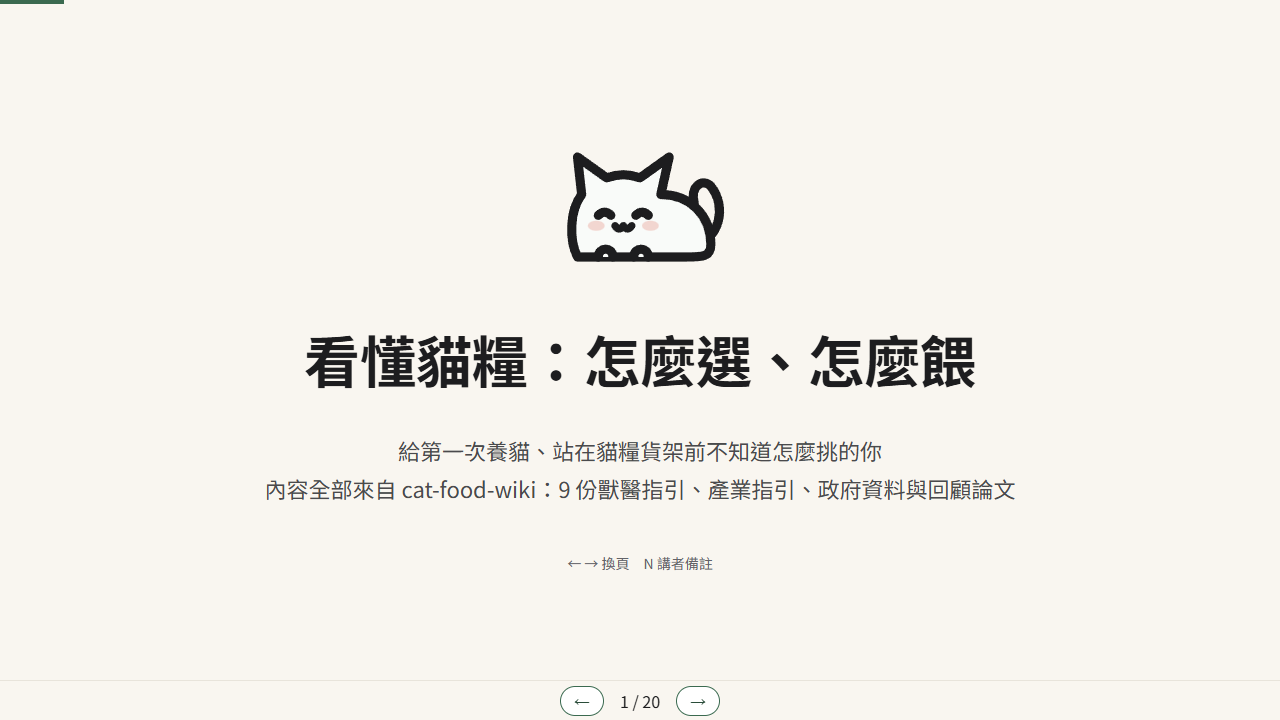
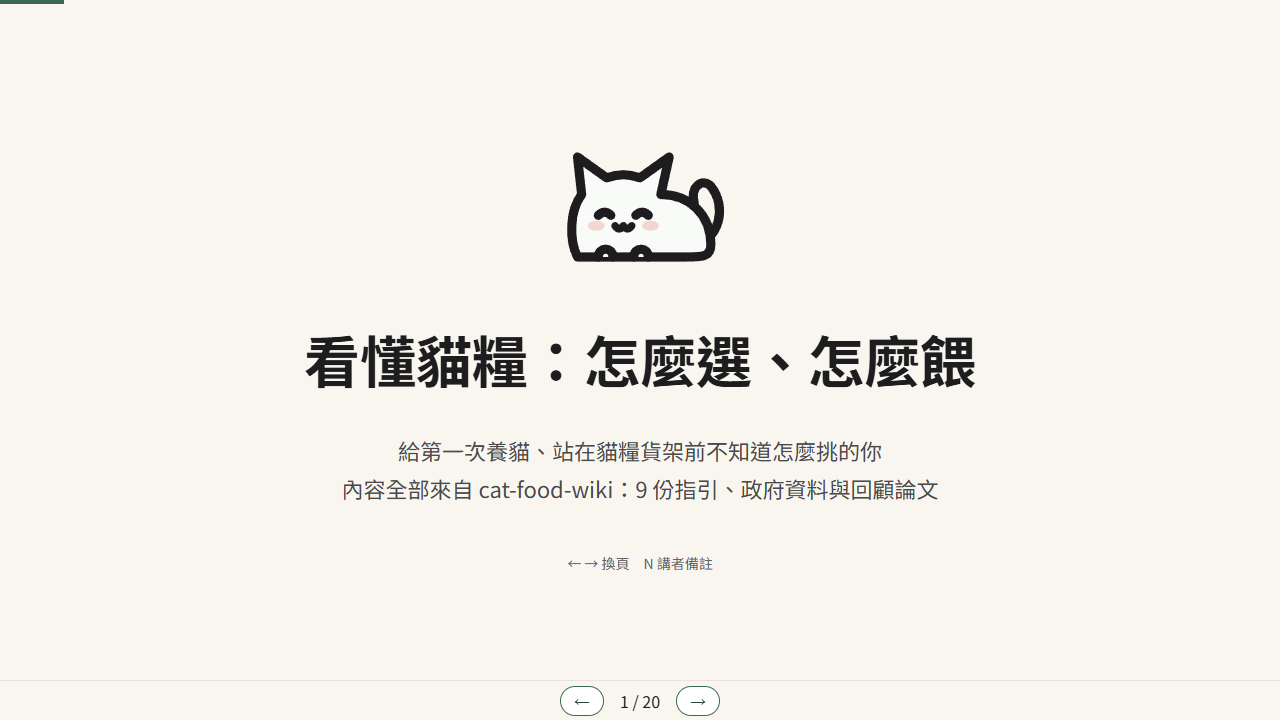
產出: 第 10 輪審查實質 0，重新產出與截圖，停在 H3

Changed region(s): [[0.1875, 0.6417, 0.8125, 0.7028]]

diff --git a/docs/index.html b/docs/index.html
@@ -68,7 +68,7 @@ nav button{border:1px solid var(--primary);background:var(--card);color:var(--de
                 <path d="M 18 28.5 Q 19 30 20 28.5 Q 21 30 22 28.5" stroke-width="1.8"/>
                 <path d="M 14 36 C 14 33.5, 17.5 33.5, 17.5 36" fill="var(--cat-white)"/>
                 <path d="M 22.5 36 C 22.5 33.5, 26 33.5, 26 36" fill="var(--cat-white)"/>
-            </svg><h1><span class="nb">看懂貓糧：</span><span class="nb">怎麼選、</span><span class="nb">怎麼餵</span></h1><ul class="sub"><li>給第一次養貓、站在貓糧貨架前不知道怎麼挑的你</li><li>內容全部來自 cat-food-wiki：9 份獸醫指引、產業指引、政府資料與回顧論文</li></ul><aside class="note">每一點後面的上標是 Wiki 的主張編號；每頁底部列出依據的來源和頁碼，點了可以回 Wiki 查原文。</aside><p class="hint">← → 換頁　N 講者備註</p></section><section class="slide" data-i="2"><header><span class="num">2</span><h2><span class="nb">今天你會學到什麼</span></h2><svg class="cat" aria-hidden="true" xmlns="http://www.w3.org/2000/svg" viewBox="0 0 48 48" fill="none" stroke="currentColor" stroke-width="2.2" stroke-linecap="round" stroke-linejoin="round">
+            </svg><h1><span class="nb">看懂貓糧：</span><span class="nb">怎麼選、</span><span class="nb">怎麼餵</span></h1><ul class="sub"><li>給第一次養貓、站在貓糧貨架前不知道怎麼挑的你</li><li>內容全部來自 cat-food-wiki：9 份指引、政府資料與回顧論文</li></ul><aside class="note">每一點後面的上標是 Wiki 的主張編號；每頁底部列出依據的來源和頁碼，點了可以回 Wiki 查原文。</aside><p class="hint">← → 換頁　N 講者備註</p></section><section class="slide" data-i="2"><header><span class="num">2</span><h2><span class="nb">今天你會學到什麼</span></h2><svg class="cat" aria-hidden="true" xmlns="http://www.w3.org/2000/svg" viewBox="0 0 48 48" fill="none" stroke="currentColor" stroke-width="2.2" stroke-linecap="round" stroke-linejoin="round">
                 <path d="M 35 9 C 35 5.5, 41 5.5, 41 9.5 C 41 12.5, 38 13.5, 38 16.5" stroke="var(--gold)" stroke-width="2.5"/>
                 <circle cx="38" cy="20.5" r="1.4" fill="var(--gold)" stroke="none"/>
                 <path d="M 16.5 28 C 13.5 33, 13.5 40.5, 18 40.5 L 30 40.5 C 34.5 40.5, 34.5 33, 31.5 28" fill="var(--cat-white)"/>
@@ -148,7 +148,7 @@ nav button{border:1px solid var(--primary);background:var(--card);color:var(--de
                     <path d="M 25.5 24.5 Q 26.5 26 27.5 24.5 Q 28.5 26 29.5 24.5" stroke-width="1.8"/>
                     <path d="M 21 31 C 16 30, 14 32, 16 35 C 17 36, 20 35, 23 34" fill="var(--cat-white)"/>
                 </g>
-            </svg></header><ul class="points"><li>標短期、間歇或副食的，只佔 10% 以下；處方食品在獸醫監督下例外<sup class="ref">C-ADQ-04</sup></li><li>零食不超過總飲食的 10%，熱量要算進每天的份量<sup class="ref">C-TRT-01</sup></li><li>零食和補充品不需要營養充足聲明<sup class="ref">C-TRT-02</sup></li><li>世界小動物獸醫協會（WSAVA）：零食、餐桌食物超過總熱量 10% 是風險因子<sup class="ref">C-TRT-03</sup></li></ul><footer class="refs"><span>依據 Wiki：</span><a href="https://github.com/Chen-MouChin/cat-food-wiki/blob/main/wiki/sources/WSAVA-SELECTING-PET-FOODS-2021.md" target="_blank" rel="noopener">C-ADQ-04｜WSAVA 選食物 p.1</a><a href="https://github.com/Chen-MouChin/cat-food-wiki/blob/main/wiki/sources/AAFP-NUTRITION-2018.md" target="_blank" rel="noopener">C-TRT-01｜AAFP 2018 p.2</a><a href="https://github.com/Chen-MouChin/cat-food-wiki/blob/main/wiki/sources/AAHA-NUTRITION-2021.md" target="_blank" rel="noopener">C-TRT-02｜AAHA 2021 p.6</a><a href="https://github.com/Chen-MouChin/cat-food-wiki/blob/main/wiki/sources/WSAVA-NUTRITION-2011.md" target="_blank" rel="noopener">C-TRT-03｜WSAVA 2011 p.3</a></footer></section><section class="slide" data-i="7"><header><span class="num">7</span><h2><span class="nb">產品名稱藏著比例（美國規則）</span></h2><svg class="cat" aria-hidden="true" xmlns="http://www.w3.org/2000/svg" viewBox="0 0 48 48" fill="none" stroke="currentColor" stroke-width="2.2" stroke-linecap="round" stroke-linejoin="round">
+            </svg></header><ul class="points"><li>標短期、間歇或副食的，只佔 10% 以下；處方食品照醫囑使用時例外<sup class="ref">C-ADQ-04</sup></li><li>零食不超過總飲食的 10%，熱量要算進每天的份量<sup class="ref">C-TRT-01</sup></li><li>零食和補充品不需要營養充足聲明<sup class="ref">C-TRT-02</sup></li><li>世界小動物獸醫協會（WSAVA）：零食、餐桌食物超過總熱量 10% 是風險因子<sup class="ref">C-TRT-03</sup></li></ul><footer class="refs"><span>依據 Wiki：</span><a href="https://github.com/Chen-MouChin/cat-food-wiki/blob/main/wiki/sources/WSAVA-SELECTING-PET-FOODS-2021.md" target="_blank" rel="noopener">C-ADQ-04｜WSAVA 選食物 p.1</a><a href="https://github.com/Chen-MouChin/cat-food-wiki/blob/main/wiki/sources/AAFP-NUTRITION-2018.md" target="_blank" rel="noopener">C-TRT-01｜AAFP 2018 p.2</a><a href="https://github.com/Chen-MouChin/cat-food-wiki/blob/main/wiki/sources/AAHA-NUTRITION-2021.md" target="_blank" rel="noopener">C-TRT-02｜AAHA 2021 p.6</a><a href="https://github.com/Chen-MouChin/cat-food-wiki/blob/main/wiki/sources/WSAVA-NUTRITION-2011.md" target="_blank" rel="noopener">C-TRT-03｜WSAVA 2011 p.3</a></footer></section><section class="slide" data-i="7"><header><span class="num">7</span><h2><span class="nb">產品名稱藏著比例（美國規則）</span></h2><svg class="cat" aria-hidden="true" xmlns="http://www.w3.org/2000/svg" viewBox="0 0 48 48" fill="none" stroke="currentColor" stroke-width="2.2" stroke-linecap="round" stroke-linejoin="round">
                 <g class="anim-breathe" style="transform-origin: 24px 36px;">
                     <path d="M 10 29 C 9 24, 11 20, 13 18 L 12 11 L 18 15 C 20 14.5, 22 14.5, 24 15 L 29 11 L 28 17 C 35 17, 40 23, 40 30 C 40 37, 33 40, 24 40 C 15 40, 10 36, 10 29 Z" fill="var(--cat-white)"/>
                     <ellipse cx="15" cy="27.5" rx="1.8" ry="1" fill="var(--cat-blush)" stroke="none"/>
@@ -263,7 +263,7 @@ nav button{border:1px solid var(--primary);background:var(--card);color:var(--de
                 <line x1="24" y1="26" x2="24" y2="33" stroke="var(--gold)" stroke-width="1.8"/>
                 <path d="M 15.5 25.5 C 15.5 29.8, 20.5 29.8, 20.5 25.5" fill="var(--cat-white)"/>
                 <path d="M 27.5 25.5 C 27.5 29.8, 32.5 29.8, 32.5 25.5" fill="var(--cat-white)"/>
-            </svg></header><ul class="points"><li>體態評分（BCS）看身上的脂肪；9 分制，沒有驗證過超過 9 分的系統<sup class="ref">C-BCS-07</sup><sup class="ref">C-BCS-08</sup></li><li>理想是 9 分制的 4–5 分，有些飼主會覺得這樣太瘦<sup class="ref">C-BCS-02</sup><sup class="ref">C-BCS-09</sup></li><li>低於 4 或高於 5，WSAVA 列為營養的風險因子<sup class="ref">C-BCS-05</sup></li><li>獸醫和飼主要經常看體態，再調整餵的量<sup class="ref">C-BCS-06</sup></li></ul><footer class="refs"><span>依據 Wiki：</span><a href="https://github.com/Chen-MouChin/cat-food-wiki/blob/main/wiki/sources/WSAVA-NUTRITION-2011.md" target="_blank" rel="noopener">C-BCS-07｜WSAVA 2011 p.3</a><a href="https://github.com/Chen-MouChin/cat-food-wiki/blob/main/wiki/sources/WSAVA-NUTRITION-2011.md" target="_blank" rel="noopener">C-BCS-08｜WSAVA 2011 p.3</a><a href="https://github.com/Chen-MouChin/cat-food-wiki/blob/main/wiki/sources/AAFP-NUTRITION-2018.md" target="_blank" rel="noopener">C-BCS-02｜AAFP 2018 p.3</a><a href="https://github.com/Chen-MouChin/cat-food-wiki/blob/main/wiki/sources/WSAVA-NUTRITION-2011.md" target="_blank" rel="noopener">C-BCS-09｜WSAVA 2011 p.3</a><a href="https://github.com/Chen-MouChin/cat-food-wiki/blob/main/wiki/sources/WSAVA-NUTRITION-2011.md" target="_blank" rel="noopener">C-BCS-05｜WSAVA 2011 p.3</a><a href="https://github.com/Chen-MouChin/cat-food-wiki/blob/main/wiki/sources/AAFP-NUTRITION-2018.md" target="_blank" rel="noopener">C-BCS-06｜AAFP 2018 p.3</a></footer></section><section class="slide" data-i="15"><header><span class="num">15</span><h2><span class="nb">怎麼餵：</span><span class="nb">模仿貓的天性</span></h2><svg class="cat" aria-hidden="true" xmlns="http://www.w3.org/2000/svg" viewBox="0 0 48 48" fill="none" stroke="currentColor" stroke-width="2.2" stroke-linecap="round" stroke-linejoin="round">
+            </svg></header><ul class="points"><li>體態評分（BCS）看身上的脂肪；9 分制，沒有驗證過超過 9 分的系統<sup class="ref">C-BCS-07</sup><sup class="ref">C-BCS-08</sup></li><li>理想是 9 分制的 4–5 分，有些飼主會覺得這樣太瘦<sup class="ref">C-BCS-02</sup><sup class="ref">C-BCS-09</sup></li><li>低於 4 或高於 5，WSAVA 列為營養的風險因子<sup class="ref">C-BCS-05</sup></li><li>要經常看體態，再調整餵的量<sup class="ref">C-BCS-06</sup></li></ul><footer class="refs"><span>依據 Wiki：</span><a href="https://github.com/Chen-MouChin/cat-food-wiki/blob/main/wiki/sources/WSAVA-NUTRITION-2011.md" target="_blank" rel="noopener">C-BCS-07｜WSAVA 2011 p.3</a><a href="https://github.com/Chen-MouChin/cat-food-wiki/blob/main/wiki/sources/WSAVA-NUTRITION-2011.md" target="_blank" rel="noopener">C-BCS-08｜WSAVA 2011 p.3</a><a href="https://github.com/Chen-MouChin/cat-food-wiki/blob/main/wiki/sources/AAFP-NUTRITION-2018.md" target="_blank" rel="noopener">C-BCS-02｜AAFP 2018 p.3</a><a href="https://github.com/Chen-MouChin/cat-food-wiki/blob/main/wiki/sources/WSAVA-NUTRITION-2011.md" target="_blank" rel="noopener">C-BCS-09｜WSAVA 2011 p.3</a><a href="https://github.com/Chen-MouChin/cat-food-wiki/blob/main/wiki/sources/WSAVA-NUTRITION-2011.md" target="_blank" rel="noopener">C-BCS-05｜WSAVA 2011 p.3</a><a href="https://github.com/Chen-MouChin/cat-food-wiki/blob/main/wiki/sources/AAFP-NUTRITION-2018.md" target="_blank" rel="noopener">C-BCS-06｜AAFP 2018 p.3</a></footer></section><section class="slide" data-i="15"><header><span class="num">15</span><h2><span class="nb">怎麼餵：</span><span class="nb">模仿貓的天性</span></h2><svg class="cat" aria-hidden="true" xmlns="http://www.w3.org/2000/svg" viewBox="0 0 48 48" fill="none" stroke="currentColor" stroke-width="2.2" stroke-linecap="round" stroke-linejoin="round">
                 <circle cx="11" cy="35" r="5" fill="var(--pale-moss)"/>
                 <path d="M 9 32 C 11 34, 13 36, 14 38" stroke-width="1.6"/>
                 <path d="M 14 32 C 12 34, 10 36, 8 37" stroke-width="1.6"/>

diff --git a/runs/gates/H3_2026-11-20-2.md b/runs/gates/H3_2026-11-20-2.md
@@ -1,0 +1,99 @@
+# H3 人工審核最終成果（執行 2026-11-20-2）
+
+請看成果本身：簡報（直接開 `docs/index.html`，按 N 看講者備註）、截圖，以及下面這次執行的摘要。
+截圖在 `runs/shots/2026-11-20-2/`（23 張）。
+「判定：」填 **OK**，或 **NG 內容 原因**（退回 S8）、**NG Wiki 原因**（退回 S3）、**NG 版面 原因**（退回 S11）。
+
+這次執行經過的節點：
+
+| 時間 | 節點 | 類型 | 結果 | 下一步 | 說明 |
+|---|---|---|---|---|---|
+| 2026-11-20 10:28 | H0 人工審核流程框架 | human | OK | S0 | runs/gates/H0_2026-11-20-2.md |
+| 2026-11-20 10:28 | S0 討論範圍與來源 | agent | 完成 | S1 | 主題、聽眾、來源沿用 11/19 的討論（wiki/log.md 第一筆）；這次沒有新主題或新來源 |
+| 2026-11-20 10:28 | S1 取得原文 | agent | 完成 | S2 | 9 份原文已在 raw/，不重抓 |
+| 2026-11-20 10:28 | S2 抽逐頁文字 | auto | OK | S3 | 逐頁文字 9 份 |
+| 2026-11-20 10:28 | S3 Ingest 寫主張 | agent | 完成 | S4 | 主張 61 條，這次沒有新增或修改 |
+| 2026-11-20 10:28 | S4 Wiki 檢查 lint | auto | OK | S5 | 主張 61 條，原句比對成功 61 條；FAIL 0，WARN 0 |
+| 2026-11-20 10:28 | S5 AI 逐條對照意思 | agent | 完成 | S6 | 沿用 11/19 的逐條對照（runs/lint_04_semantic_fix.txt）；此後主張沒有再改 |
+| 2026-11-20 10:28 | S6 整理主題頁 | agent | 完成 | S6L | 主題頁 7 頁，這次沒有修改 |
+| 2026-11-20 10:28 | S6L 主題頁檢查 lint | auto | OK | S7 | 主張 61 條，原句比對成功 61 條；FAIL 0，WARN 0 |
+| 2026-11-20 10:28 | S7 查 Wiki 排大綱 | agent | 完成 | S8 | outline.md 沿用，這次沒有修改 |
+| 2026-11-20 10:28 | S8 生成簡報 | agent | 完成 | S9 | deck.md 沿用審查第 4 輪後的版本，這次沒有修改 |
+| 2026-11-20 10:28 | S9 簡報檢查 | auto | OK | S10 | 簡報 18 頁，引用 53 條主張（Wiki 共 61 條）；FAIL 0 |
+| 2026-11-20 10:28 | S10 獨立審查 agent | agent | FAIL：實質問題：Wiki 缺資料 | S3 | runs/review_05.md：實質 8、輕微 24 |
+| 2026-11-20 10:30 | S3 Ingest 寫主張 | agent | 完成 | S4 | 依審查第 5 輪改 C-FEED-01、C-LBL-06、C-BRD-01～03（實質）與 C-LBL-03、C-ADQ-04、C-CARB-06、C-KCAL-02、C-BCS-01（輕微）；新增 C-LBL-07、08（FDA 肉粉與乾物比較）、C-BCS-07～09（WSAVA 2011 體態評分） |
+| 2026-11-20 10:30 | S4 Wiki 檢查 lint | auto | FAIL：原句對不到／數字不一致 | S3 | C-BCS-07 原句在 p.3，不是 p.2；C-BCS-08 原句在 p.3，不是 p.2；C-BCS-09 原句在 p.3，不是 p.2 |
+| 2026-11-20 10:30 | S3 Ingest 寫主張 | agent | 完成 | S4 | C-BCS-07～09 頁碼改成 p.3（WSAVA 2011 的 BCS 段落在第 3 頁） |
+| 2026-11-20 10:30 | S4 Wiki 檢查 lint | auto | OK | S5 | 主張 66 條，原句比對成功 66 條；FAIL 0，WARN 5 |
+| 2026-11-20 10:30 | S5 AI 逐條對照意思 | agent | FAIL：中文超出原句 | S3 | C-BCS-08：「也就是分數越高越胖」是推論，原句只說有些極度肥胖的病例超過 9/9，而且是「有些」不是全部；C-CARB-06：中文的「依目前發表的證據，看起來」不在引用的原句裡，要把原句往前抄；C-LBL-07：中文用「可能」，原句是在那個例子裡「可以看出」較多，語氣對不上 |
+| 2026-11-20 10:30 | S3 Ingest 寫主張 | agent | 完成 | S4 | 照 S5 改 C-BCS-08（刪推論、改成「有些」）、C-CARB-06（原句往前抄到 Based on currently published evidence）、C-LBL-07（語氣對齊原句） |
+| 2026-11-20 10:30 | S4 Wiki 檢查 lint | auto | OK | S5 | 主張 66 條，原句比對成功 66 條；FAIL 0，WARN 5 |
+| 2026-11-20 10:30 | S5 AI 逐條對照意思 | agent | 完成 | S6 | 這次改過與新增的 15 條逐條對照：前一輪的 3 條已修正，其餘中文都在原句範圍內 |
+| 2026-11-20 10:31 | S6 整理主題頁 | agent | 完成 | S6L | 依新主張更新 5 個主題頁：選品牌拿掉題號、肉粉與乾物比較（C-LBL-06～08）、體態評分（C-BCS-07～09）、C-FEED-01、C-CARB-06、C-KCAL-02 的措辭 |
+| 2026-11-20 10:31 | S6L 主題頁檢查 lint | auto | OK | S7 | 主張 66 條，原句比對成功 66 條；FAIL 0，WARN 0 |
+| 2026-11-20 10:31 | S7 查 Wiki 排大綱 | agent | 完成 | S8 | outline 第 8 頁加 C-LBL-07、08，第 14 頁加 C-BCS-07～09（query_wiki.py 查「肉粉 乾物」「體態 脂肪」） |
+| 2026-11-20 10:32 | S8 生成簡報 | agent | 完成 | S9 | 依審查第 5 輪改 12 頁：實質 R1～R4（肉粉、熱量頁、24 小時、附錄流程）＋輕微 R9～R27 中 17 項；附錄流程改由 run_graph 的節點產生 |
+| 2026-11-20 10:32 | S9 簡報檢查 | auto | OK | S10 | 簡報 18 頁，引用 56 條主張（Wiki 共 66 條）；FAIL 0 |
+| 2026-11-20 10:36 | S10 獨立審查 agent | agent | FAIL：實質問題：Wiki 缺資料 | S3 | runs/review_05.md：實質 8、輕微 24 |
+| 2026-11-20 10:37 | S10 獨立審查 agent | agent | 撤銷上一筆 | S10 | 10:36 那筆是第 5 輪審查 agent 誤用舊審查檔（review_05，審的是修改前的簡報）標記的；撤銷，S10→S3 次數改回 1，改用審新版的 review_06 |
+| 2026-11-20 10:37 | S10 獨立審查 agent | agent | FAIL：實質問題：Wiki 缺資料 | S3 | runs/review_06.md：實質 4、輕微 23 |
+| 2026-11-20 10:38 | S3 Ingest 寫主張 | agent | 完成 | S4 | 依審查第 6 輪：C-BCS-08 補但書（沒有驗證過超過 9 分的系統）；C-KCAL-06、C-BRD-01 原句或中文對齊；C-LBL-08、C-BCS-06、C-FEED-06 措辭；新增 C-DM-07（比較要同水分基礎）、C-CARB-09（歐盟標籤）、C-CARB-10（灰分）、C-FEED-09（益智餵食器是什麼） |
+| 2026-11-20 10:38 | S4 Wiki 檢查 lint | auto | OK | S5 | 主張 70 條，原句比對成功 70 條；FAIL 0，WARN 4 |
+| 2026-11-20 10:38 | S5 AI 逐條對照意思 | agent | 完成 | S6 | 這次改過與新增的 9 條逐條對照，中文都在原句範圍內 |
+| 2026-11-20 10:38 | S6 整理主題頁 | agent | 完成 | S6L | 主題頁：放入 C-DM-07、C-CARB-09、10、C-FEED-09；照審查第 6 輪拿掉沒有出處的「現名 FelineVMA」「公式不同」「名稱差一個字」與碳水頁最後一句，砂盆改放在「餵食點」小節 |
+| 2026-11-20 10:38 | S6L 主題頁檢查 lint | auto | OK | S7 | 主張 70 條，原句比對成功 70 條；FAIL 0，WARN 0 |
+| 2026-11-20 10:39 | S7 查 Wiki 排大綱 | agent | 完成 | S8 | outline 第 9 頁加 C-DM-07、第 11 頁加 C-CARB-09、10、第 15 頁加 C-FEED-09 |
+| 2026-11-20 10:39 | S8 生成簡報 | agent | 完成 | S9 | 依審查第 6 輪改 11 頁：實質 R1（4 公斤條件）、R2（9 分但書）；輕微：美國／歐洲／歐盟標示、處方食品例外、機構全名、FDA 例子寫進備註、灰分、益智餵食器、營養專家資格、附錄說明 |
+| 2026-11-20 10:39 | S9 簡報檢查 | auto | OK | S10 | 簡報 18 頁，引用 60 條主張（Wiki 共 70 條）；FAIL 0 |
+| 2026-11-20 10:45 | S10 獨立審查 agent | agent | FAIL：實質問題：Wiki 缺資料 | S3 | runs/review_07.md：實質 1、輕微 18 |
+| 2026-11-20 10:45 | S3 Ingest 寫主張 | agent | 完成 | S4 | 依審查第 7 輪：新增 C-LBL-09（FDA 例子的兩款成分表設定）；C-LBL-07 改成「對手那款／第一款」；C-FEED-09「推」改「撥弄」；主題頁 4 處措辭對齊主張 |
+| 2026-11-20 10:45 | S4 Wiki 檢查 lint | auto | OK | S5 | 主張 71 條，原句比對成功 71 條；FAIL 0，WARN 1 |
+| 2026-11-20 10:45 | S5 AI 逐條對照意思 | agent | 完成 | S6 | C-LBL-09、C-LBL-07、C-FEED-09 逐條對照，中文都在原句範圍內 |
+| 2026-11-20 10:45 | S6 整理主題頁 | agent | 完成 | S6L | reading-labels 加 C-LBL-09 的例子設定、C-LBL-07／08 改成「對手那款」；choosing-a-brand、calories、complete-and-balanced 措辭對齊主張 |
+| 2026-11-20 10:45 | S6L 主題頁檢查 lint | auto | OK | S7 | 主張 71 條，原句比對成功 71 條；FAIL 0，WARN 0 |
+| 2026-11-20 10:46 | S7 查 Wiki 排大綱 | agent | 完成 | S8 | outline 第 8 頁加 C-LBL-09，第 18 頁加 C-DM-07 |
+| 2026-11-20 10:46 | S8 生成簡報 | agent | 完成 | S9 | 依審查第 7 輪：第 8 頁 FDA 例子改用 C-LBL-09 當出處；AAFP 補適用對象；乾糧定義標 FEDIAF；第 16 頁標題；第 18 頁改引 C-DM-07；附錄與流程圖圖例用語 |
+| 2026-11-20 10:46 | S9 簡報檢查 | auto | OK | S10 | 簡報 18 頁，引用 61 條主張（Wiki 共 71 條）；FAIL 0 |
+| 2026-11-20 10:52 | S10 獨立審查 agent | agent | OK（實質 0、輕微 23） | S11 | runs/review_08.md |
+| 2026-11-20 10:52 | S11 產出 HTML | auto | OK | S12 | 完成：docs/index.html，20 頁（含出處、流程兩頁附錄），引用 61 條主張 |
+| 2026-11-20 10:52 | S12 截圖 電腦/手機 | auto | OK | H3 | 23 張截圖存在 runs/shots/2026-11-20-2/ |
+| 2026-11-20 11:10 | H3 人工審核最終成果 | human | FAIL：不通過：內容 | S8 | NG 內容 小測驗列了選項但沒有互動，應該要點選之後能翻轉，得到正確與否以及解析（負責人判定，口頭；agent 照原話寫入） |
+| 2026-11-20 11:12 | S8 生成簡報 | agent | 完成 | S9 | 照 H3 負責人判定：小測驗改成可點選的翻面卡（每題 3 個選項，點了翻面顯示答對／答錯、正確答案和解析，解析附主張編號）；check_slides 加小測驗規則；出處列改成跟在內容後面，修第 17、20 頁重疊；目錄頁不再顯示空的出處列 |
+| 2026-11-20 11:12 | S9 簡報檢查 | auto | OK | S10 | 簡報 18 頁，引用 61 條主張（Wiki 共 71 條）；FAIL 0 |
+| 2026-11-20 11:19 | S10 獨立審查 agent | agent | OK（實質 0、輕微 10） | S11 | runs/review_09.md |
+| 2026-11-20 11:19 | S11 產出 HTML | auto | OK | S12 | 完成：docs/index.html，20 頁（含出處、流程兩頁附錄），引用 61 條主張 |
+| 2026-11-20 11:20 | S12 截圖 電腦/手機 | auto | OK | H3 | 23 張截圖存在 runs/shots/2026-11-20-2/ |
+| 2026-11-20 13:15 | H3 人工審核最終成果 | human | FAIL：不通過：內容 | S8 | NG 內容 「獸醫」不用一直出現；README、wiki/index.md、7 個主題頁照逐段確認的修改（負責人判定，口頭與逐段回覆；agent 照原話寫入） |
+| 2026-11-20 13:15 | S8 生成簡報 | agent | 完成 | S9 | 照 H3：簡報第 1、6、14 頁拿掉非機構名稱的「獸醫」；README、wiki/index.md、7 個主題頁照負責人逐段確認修改 |
+| 2026-11-20 13:15 | S9 簡報檢查 | auto | OK | S10 | 簡報 18 頁，引用 61 條主張（Wiki 共 71 條）；FAIL 0 |
+| 2026-11-20 13:18 | S10 獨立審查 agent | agent | OK（實質 0、輕微 7） | S11 | runs/review_10.md |
+| 2026-11-20 13:18 | S11 產出 HTML | auto | OK | S12 | 完成：docs/index.html，20 頁（含出處、流程兩頁附錄），引用 61 條主張 |
+| 2026-11-20 13:19 | S12 截圖 電腦/手機 | auto | OK | H3 | 23 張截圖存在 runs/shots/2026-11-20-2/ |
+
+### [PUBLISH] 這一版可以發佈嗎？
+
+- desktop_01.png
+- desktop_02.png
+- desktop_03.png
+- desktop_04.png
+- desktop_05.png
+- desktop_06.png
+- desktop_07.png
+- desktop_08.png
+- desktop_09.png
+- desktop_10.png
+- desktop_11.png
+- desktop_12.png
+- desktop_13.png
+- desktop_14.png
+- desktop_15.png
+- desktop_16.png
+- desktop_17.png
+- desktop_18.png
+- desktop_19.png
+- desktop_20.png
+- mobile_01.png
+- mobile_02.png
+- mobile_17.png
+
+判定：

diff --git a/runs/review_10.md b/runs/review_10.md
@@ -1,0 +1,13 @@
+# 審查第 10 輪（只審 commit d63f923 的修改）
+
+範圍：slides/deck.md 第 1、6、14 頁；wiki/concepts/*.md（7 頁）、wiki/index.md、wiki/sources/FDA-PET-FOOD-LABELS-GENERAL.md 的 C-LBL-02；README.md；runs/RUN_2026-11-20.md。方法：用 git show 看差異，逐句對照 wiki/sources 的主張與 raw/*.txt 原文（只讀，沒有執行 scripts/）。結果：簡報三頁拿掉「獸醫」後意思沒有超出主張，也沒有漏掉必要的但書。C-LBL-02 延長後的原句和 raw/FDA-PET-FOOD-LABELS-GENERAL.txt p.1 一字不差，補上了「Formula」的出處（解決 review_08 R12）。主題頁加上的「美國／歐洲／FEDIAF／FDA／WSAVA」標示，都和各主張所屬的來源一致。wiki/index.md 的 71 條、各來源主張數（8/11/19/7/3/6/11/4/2）和 sources/*.md 實際條數相符。RUN_2026-11-20.md 的數字對照 graph_log.md 與 review_05～09，都對得上：各輪實質／輕微 8/24、4/23、1/18、0/23、0/10，主張 61→66→70→71，S10→S3 走滿 3 次，實質錯誤 20 項（審查 13＝簡報 5＋附錄 1＋Wiki 7，另有 lint 3、S5 3、H3 1）。沒有實質問題。輕微問題是流程沒走完整、一處中文超出引用句，以及紀錄沒有更新到最新。
+
+- [R1]（Wiki）（輕微）concepts/calories-and-body-condition.md：刪掉「營養篩檢當第五生命徵象／每次看診做營養評估」那一點後，C-BCS-03、C-BCS-04 不再被任何主題頁引用，lint_wiki.py 第 134 行會列成「孤兒主張」WARN。建議看負責人的意思：要嘛把這點放回去（可以不寫「獸醫」），要嘛在 log 註明這兩條主張是刻意不用。
+- [R2]（Wiki）（輕微）流程：這次改了 7 個主題頁和 C-LBL-02 的原句，但 graph_log.md 只記到 S8、S9，S4、S5、S6L 都沒有重跑。H3 判的是「NG 內容」，照圖會退回 S8；動到 Wiki 的部分應該是「NG Wiki」，退回 S3。建議補跑 S4～S6L，至少 lint 要確認 FAIL 0，並看 R1 的 WARN；或者在紀錄寫明為什麼跳過。
+- [R3]（Wiki）（輕微）concepts/how-to-feed.md C-FEED-08：「不管是讓貓自由取食還是分餐」不在引用的原句裡，原句從「owners should track」才開始。raw/DELGADO p.4 的前一句是「allow cats to graze or offer multiple feeding choices (food puzzles, as well as meals)」，所以「分餐」也漏了益智餵食器。建議把原句往前延長到「Owners can allow cats to graze…」並同步修改主張的中文；不然就改回「不管怎麼餵」。
+- [R4]（簡報）（輕微）第 6 頁第 1 點，以及 concepts/complete-and-balanced.md 的 C-ADQ-04：「照醫囑使用時例外」對應原文「under veterinarian supervision」。原文說的是持續監督，「照醫囑」比較接近開一次處方就好，意思弱了一點；而且主張本身的中文還是「在獸醫監督下」，三處說法不一致。建議改成「處方食品在醫療監督下使用時例外」，主張的中文也一起改（走 S3→S5）。
+- [R5]（簡報）（輕微）runs/RUN_2026-11-20.md「走過的節點」：表格最後一列是「H3 負責人審核中」，但 graph_log.md 在 13:15 已經記了第 2 次 H3 NG（「獸醫」用語，以及 README、首頁、主題頁的修改），接著是 S8、S9，現在停在 S10。表格和「每個節點抓到的錯誤」都沒有算到這次 H3。開頭寫「實際跑完的一次執行」，也和現況不符。建議補上 13:15 這一輪、這輪審查的結果，並更新 H3 的狀態。
+- [R6]（簡報）（輕微）runs/RUN_2026-11-20.md：寫「另外還有三件不算在上表的事」，下面只列了兩點（流程程式 2 項、審查 agent 誤操作 1 次）。建議改成「兩類」，或改成「三項（流程程式 2、誤操作 1）」。
+- [R7]（簡報）（輕微）README.md：刪掉了「執行紀錄」一節和 runs/graph_log.md 的連結，現在 README 沒有任何連結通到 RUN_2026-11-19.md、RUN_2026-11-20.md，「每一步都會自動寫進執行紀錄」也沒寫在哪裡。建議至少留一行連結到 runs/RUN_2026-11-20.md 和 runs/graph_log.md。
+
+總結：實質 0、輕微 7

diff --git a/runs/graph_log.md b/runs/graph_log.md
@@ -81,3 +81,6 @@
 | 2026-11-20 13:15 | H3 人工審核最終成果 | human | FAIL：不通過：內容 | S8 | NG 內容 「獸醫」不用一直出現；README、wiki/index.md、7 個主題頁照逐段確認的修改（負責人判定，口頭與逐段回覆；agent 照原話寫入） |
 | 2026-11-20 13:15 | S8 生成簡報 | agent | 完成 | S9 | 照 H3：簡報第 1、6、14 頁拿掉非機構名稱的「獸醫」；README、wiki/index.md、7 個主題頁照負責人逐段確認修改 |
 | 2026-11-20 13:15 | S9 簡報檢查 | auto | OK | S10 | 簡報 18 頁，引用 61 條主張（Wiki 共 71 條）；FAIL 0 |
+| 2026-11-20 13:18 | S10 獨立審查 agent | agent | OK（實質 0、輕微 7） | S11 | runs/review_10.md |
+| 2026-11-20 13:18 | S11 產出 HTML | auto | OK | S12 | 完成：docs/index.html，20 頁（含出處、流程兩頁附錄），引用 61 條主張 |
+| 2026-11-20 13:19 | S12 截圖 電腦/手機 | auto | OK | H3 | 23 張截圖存在 runs/shots/2026-11-20-2/ |
